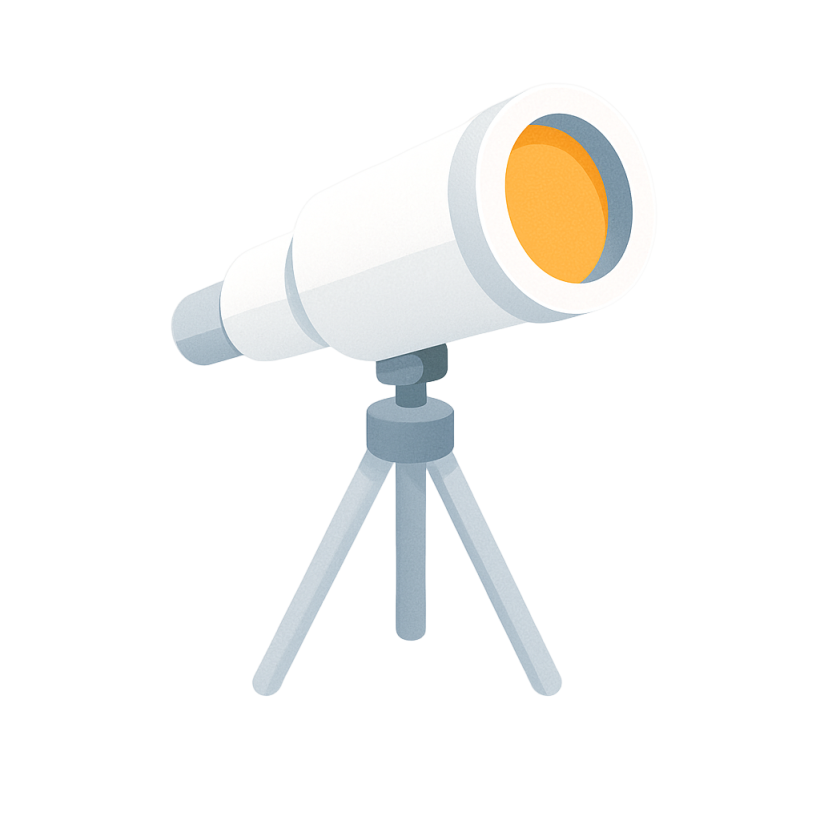
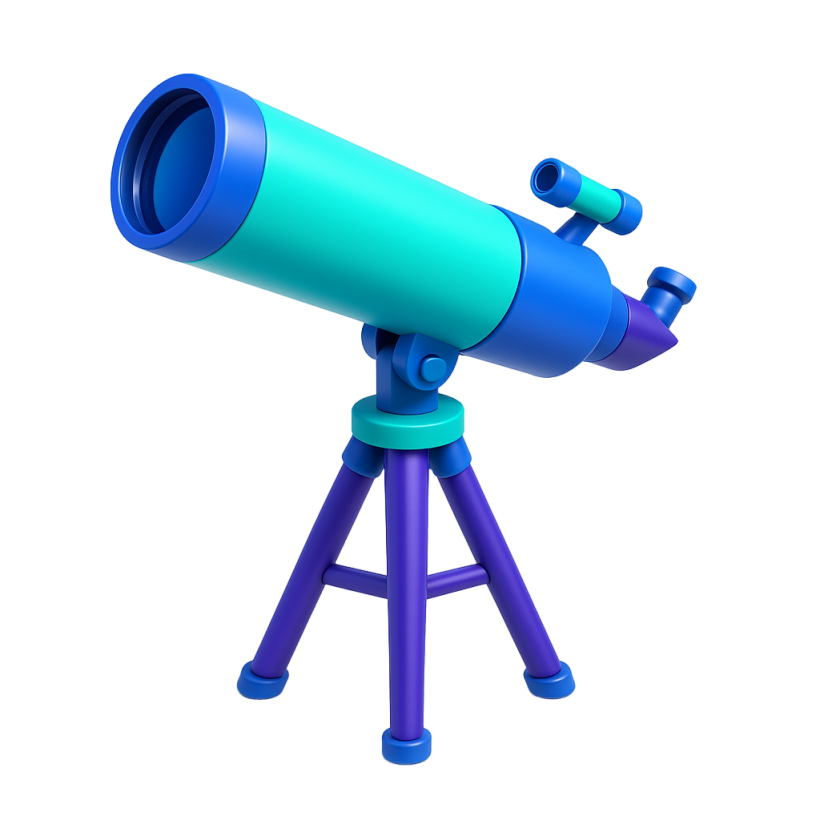
change colors and images

Changed region(s): [[0.122, 0.0915, 0.8537, 0.9451]]

diff --git a/src/pages/Services/components/ServicesComponent.jsx b/src/pages/Services/components/ServicesComponent.jsx
@@ -24,7 +24,7 @@ export default function ServicesComponent() {
         mt: { xs: 6, sm: 8, md: 10 },
         width: { xs: "100%", sm: "90%", md: "90%", lg: "75%", xl: "100%" },
         minHeight: { xs: "auto", md: "50vh" },
-        backgroundColor: "rgba(252, 163, 17, 0.1)",
+        backgroundColor: "rgba(147, 30, 216, 0.1)",
         borderRadius: 3,
         position: "relative",
         overflow: "visible",
@@ -106,7 +106,7 @@ export default function ServicesComponent() {
           sx={{
             mt: { xs: 3, sm: 4, md: 5 },
             backgroundColor: "transparent",
-            color: 'colors.orange',
+            color: 'colors.primary',
             fontWeight: 'bold',
             borderRadius: 3,
             px: { xs: 4, sm: 5, md: 6 },
@@ -137,15 +137,15 @@ export default function ServicesComponent() {
         viewport={{ once: true, amount: 0.3 }}
         sx={{
           position: { md: "absolute", xs: "static" },
-          right: { md: "-5%", lg: "-25%", xl: "-20%" },
-          top: { md: "50%", xs: "auto" },
+          right: { md: "-5%", lg: "-25%", xl: "-10%" },
+          top: { md: "20%", xs: "auto" },
           transform: { md: "translateY(-50%)", xs: "none" },
           width: {
             xs: "100%",
             sm: 200,
             md: 300,
-            lg: 550,
-            xl: 600,
+            lg: 450,
+            xl: 500,
           },
           height: {
             xs: 200,
@@ -166,7 +166,7 @@ export default function ServicesComponent() {
         <Box
           component="img"
           ref={imgRef}
-          src="./images/services.webp"
+          src="./images/services.png"
           alt="Service"
           sx={{
             width: '100%',

diff --git a/src/pages/Home/components/WhyChooseUs.jsx b/src/pages/Home/components/WhyChooseUs.jsx
@@ -32,7 +32,7 @@ export default function WhychooseUs() {
   const { t } = useTranslation('whychooseus');
 
   return (
-    <Box sx={{ py: 8, px: 2, backgroundColor: 'colors.white', position: 'relative', minHeight: "20vh" }}>
+    <Box sx={{ py: 8, px: 2, backgroundColor: 'colors.grey', position: 'relative', minHeight: "20vh" }}>
       <Box display={"flex"}
         flexDirection={"row"}
         alignItems={"center"}
@@ -110,7 +110,7 @@ export default function WhychooseUs() {
                     width: 60,
                     height: 60,
                     borderRadius: '50%',
-                    backgroundColor: 'colors.orange',
+                    backgroundColor: 'colors.primary',
                     display: 'flex',
                     alignItems: 'center',
                     justifyContent: 'center',
@@ -127,7 +127,7 @@ export default function WhychooseUs() {
                     variant="h6"
                     fontSize={25}
                     sx={{
-                      color: 'colors.orange',
+                      color: 'colors.primary',
                       fontWeight: 'bold',
                       mb: 1,
                     }}

diff --git a/src/pages/Home/components/Hero/components/GlobalBackground.jsx b/src/pages/Home/components/Hero/components/GlobalBackground.jsx
@@ -11,8 +11,7 @@ export default function GlobalBackground() {
         top: 0,
         left: 0,
         overflow: 'hidden',
-        background: 'linear-gradient(135deg, #000000, #14213D)',
-        backgroundImage: 'url("/images/bg.webp")',
+        backgroundImage: 'url("/images/bg.webp"), linear-gradient(135deg, #000000, #931ed8)',
         opacity: 0.4,
         backgroundSize: 'cover',
         backgroundPosition: 'center',
@@ -23,7 +22,7 @@ export default function GlobalBackground() {
           width: 600,
           height: 600,
           borderRadius: '50%',
-          // background: 'radial-gradient(circle, rgb(11, 0, 19), rgb(0, 20, 196))',
+          // background: 'radial-gradient(circle, #001aff, #00dd93)',
           filter: 'blur(150px)',
           top: '20%',
           left: '50%',

diff --git a/src/pages/Faq/Faq.jsx b/src/pages/Faq/Faq.jsx
@@ -40,8 +40,8 @@ export default function Faq() {
                     left: 0,
                     width: '100%',
                     height: '100%',
-                    // backgroundColor: 'rgba(252, 163, 17, 0.1)', // tu naranja con opacidad
-                    backgroundImage: 'url("/images/bg-orange.png")',
+                    //backgroundColor: 'rgba(252, 163, 17, 0.1)', // tu naranja con opacidad
+                    backgroundImage: 'url("/images/bg.png")',
                     backgroundSize: 'cover',
                     backgroundRepeat: 'no-repeat',
                     backgroundPosition: 'center',

diff --git a/src/pages/Contact/components/SocialMedia.jsx b/src/pages/Contact/components/SocialMedia.jsx
@@ -43,7 +43,7 @@ export default function SocialMedia() {
                                 backgroundColor: 'colors.darkBlue',
                                 color: '#fff',
                                 '&:hover': {
-                                    backgroundColor: 'colors.orange',
+                                    backgroundColor: 'colors.primary',
                                     boxShadow: '0 4px 12px rgba(20, 33, 61, 0.2)',
                                 },
                             }}

diff --git a/src/pages/Faq/components/CTA.jsx b/src/pages/Faq/components/CTA.jsx
@@ -37,7 +37,7 @@ export default function MyButton() {
                         position: 'relative',
                         borderRadius: '999px',
                         overflow: 'hidden',
-                        backgroundColor: '#FFA500',
+                        backgroundColor: 'colors.primary',
                         height: '48px',
                         cursor: 'pointer',
                         my: { xs: 3 },

diff --git a/src/layout/components/ScrollToTop.jsx b/src/layout/components/ScrollToTop.jsx
@@ -25,10 +25,10 @@ export default function ScrollTopButton() {
           position: 'fixed',
           bottom: 32,
           right: 32,
-          bgcolor: 'colors.orange',          // naranja corporativo
+          bgcolor: 'colors.primary',          // naranja corporativo
           color: 'white',
           '&:hover': {
-            bgcolor: '#da8d12',
+            bgcolor: '#04be80ff',
           },
         }}
       >

diff --git a/src/pages/Contact/components/Form.jsx b/src/pages/Contact/components/Form.jsx
@@ -199,7 +199,7 @@ export default function Form() {
                 position: 'relative',
                 borderRadius: '999px',
                 overflow: 'hidden',
-                backgroundColor: '#FFA500',
+                backgroundColor: 'colors.primary',
                 height: '48px',
                 cursor: 'pointer',
                 my: { xs: 3 },

diff --git a/src/layout/components/DesktopNav.jsx b/src/layout/components/DesktopNav.jsx
@@ -42,7 +42,7 @@ export default function DesktopNav() {
                   fontSize: '1.1rem',
                   textTransform: 'none',
                   '&:hover': {
-                    color: 'colors.orange',
+                    color: 'colors.primary',
                     backgroundColor: 'transparent',
                   },
                 }}

diff --git a/src/pages/Home/components/Hero/components/CallToAction.jsx b/src/pages/Home/components/Hero/components/CallToAction.jsx
@@ -31,7 +31,7 @@ export default function MyButton() {
         position: 'relative',
         borderRadius: '999px',
         overflow: 'hidden',
-        backgroundColor: '#FFA500',
+        backgroundColor: 'colors.primary',
         height: {lg: '50px', md: "40px", sm: "30px" },
         cursor: 'pointer',
         my: {xs: 3, sm: 1, md: 1, lg: 3},

diff --git a/src/pages/About/components/Mision.jsx b/src/pages/About/components/Mision.jsx
@@ -41,7 +41,7 @@ export default function Mision() {
         <Box
           component={motion.img}
           ref={imgRef}
-          src="/images/mision.webp"
+          src="/images/mision.png"
           alt={t('missionTitle')}
           initial={{ x: -100, opacity: 0 }}
           whileInView={{ x: 0, opacity: 1 }}

diff --git a/src/pages/About/components/Vision.jsx b/src/pages/About/components/Vision.jsx
@@ -63,7 +63,7 @@ export default function Mision() {
         <Box
           component={motion.img}
           ref={imgRef}
-          src="/images/vision.webp"
+          src="/images/vision.png"
           alt={t('missionTitle')}
           initial={{ x: 100, opacity: 0 }}
           whileInView={{ x: 0, opacity: 1 }}
